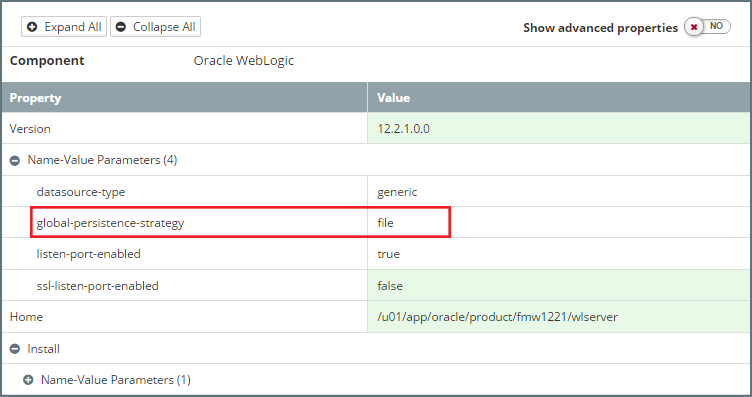
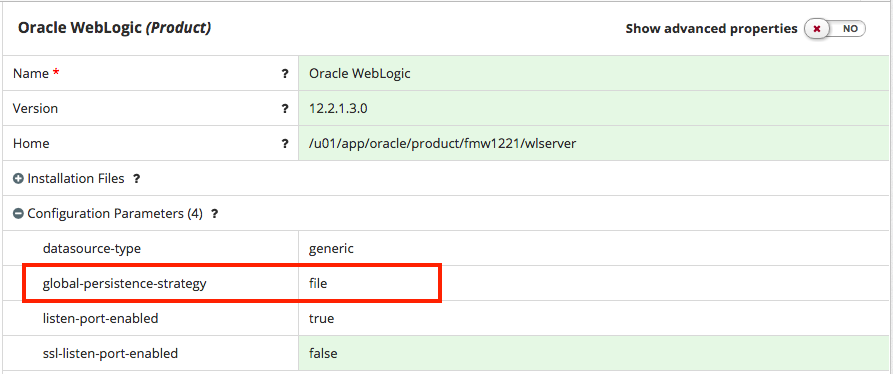
Updated persistent store for platform 2.0

diff --git a/platform/resources/weblogic/jms/persistent-stores/README.md b/platform/resources/weblogic/jms/persistent-stores/README.md
@@ -6,7 +6,7 @@
 
 ## {{ page.title }}
 
-Persistence stores provides a built-in, high-performance storage solution for WebLogic Server subsystems and services that require persistence, such as: 
+Persistence stores provides a built-in, high-performance storage solution for WebLogic Server subsystems and services that require persistence, such as:
 * Java Messaging Service (JMS)
 * Store-and-Forward (SAF) Service
 * Transaction Logs (TLogs)
@@ -18,9 +18,9 @@ One of the key design decisions when creating our Platform Blueprint is whether 
 
 ![](img/selectPersistenceStrategy.png)
 
-To view the global persistence strategy for a Platform Blueprint, open the Platform Blueprint Editor and navigate to `Blueprint > Products`. Select the `Oracle WebLogic` component to display its properties. 
+To view the global persistence strategy for a Platform Blueprint, open the Platform Blueprint Editor and navigate to `Blueprint > Products`. Select the `Oracle WebLogic` component to display its properties.
 
-Under `Name-Value Parameters` we will see the property `global-persistence-strategy` as illustrated below.
+Under `Configuration Parameters` we will see the property `global-persistence-strategy` as illustrated below.
 
 ![](img/persistenceStrategySetting.png)
 
@@ -29,19 +29,17 @@ When we select `File System` as our persistence strategy, MyST will automaticall
 
 | Name | Target | Notes |
 | ---- | ------ | ----- |
-| mds-owsm | AdminServer ||
-| mds-soa | AdminServer ||
-| UMSJMSFileStore__auto__*[n]* | osb_server*[n]* | One per OSB Managed Server |
-| WseeFileStore__auto__*[n]* | osb_server*[n]* | One per OSB Managed Server |
-| FileStore_auto_*[n]* | osb_server*[n]* | One per OSB Managed Server |
-| UMSJMSFileStore_auto_*[n]* | soa_server*[n]* | One per SOA Managed Server |
-| BPMJMSFileStore_auto_*[n]* | soa_server*[n]* | One per SOA Managed Server |
-| SOAJMSFileStore_auto_*[n]* | soa_server*[n]* | One per SOA Managed Server |
+| `mds-owsm` | `AdminServer` ||
+| `mds-soa` | `AdminServer` ||
+| `UMSJMSFileStore_auto_[n]` | `osb_server[n]` | One per OSB Managed Server |
+| `WseeFileStore_auto_[n]` | `osb_server[n]` | One per OSB Managed Server |
+| `FileStore_auto_[n]` | `osb_server[n]` | One per OSB Managed Server |
+| `UMSJMSFileStore_auto_[n]` | `soa_server[n]` | One per SOA Managed Server |
+| `BPMJMSFileStore_auto_[n]` | `soa_server[n]` | One per SOA Managed Server |
+| `SOAJMSFileStore_auto_[n]` | `soa_server[n]` | One per SOA Managed Server |
 
-
-
-#### Configure a File Persistence Store
-We can configure additional File Persistence Stores in the Platform Blueprint. To do this, open the Platform Blueprint Editor and navigate to `Blueprint > WebLogic Domains > [domain_name] > Persistence Stores > File Stores`. Expand this component to see a list of currently defined file stores.
+#### Configure a File Persistent Store
+We can configure additional File Persistence Stores in the Platform Blueprint. To do this, open the Platform Blueprint Editor and navigate to `Blueprint > WebLogic Domain Configuration > Persistent Stores > File Stores`. Expand this component to see a list of currently defined file stores.
 
 Either select an existing File Store to edit or click on the `+` icon to add a File Store.
 
@@ -50,25 +48,23 @@ For each File Store we need to specify the following properties:
 
 * **Directory** - Pathname to the directory on the file system where the file store is kept.
 
-* **Target** - Server instance on which to deploy the file store. It is recommended that the target is defined as a MyST property reference rather than a direct value. For example `${[rxr.wls.ManagedServer-1].name}`.
+* **Target** - Server instance on which to deploy the file store.
 
-We will need to define a separate file store for each JMS server. When configuring a JMS Module, we will need to create a separate JMS Server plus a corresponding File Store for each node in the cluster. So for a two node cluster, we would define two file stores as illustrated below.
-
-![](img/exampleFilePersistenceStore.png)
+We will need to define a separate file store for each JMS server. When configuring a JMS Module, we will need to create a separate JMS Server plus a corresponding File Store for each node in the cluster. So for a two node cluster, we would define two file stores. The except to this rule is for 12.2.1 onwards, where it is possible to target a File Store to a cluster.
 
 ### Database Persistence Strategy
-When we select a Database as our Global Persistence Strategy, MyST will automatically create the required file stores to support the selected product components. 
+When we select a Database as our Global Persistence Strategy, MyST will automatically create the required file stores to support the selected product components.
 
 For example, if we created a Platform Blueprint with the components SOA Suite and OSB, the following  JDBC Persistence Stores would be created:
 
 | Name | Target | Notes |
 | ---- | ------ | ----- |
-| UMSJMSJDBCStore__auto__*[n]* | osb_server*[n]* | One per OSB Managed Server |
-| WseeJDBCStore__auto__*[n]* | osb_server*[n]* | One per OSB Managed Server |
-| JDBCStore_auto_*[n]* | osb_server*[n]* | One per OSB Managed Server |
-| UMSJMSJDBCStore_auto_*[n]* | soa_server*[n]* | One per SOA Managed Server |
-| BPMJMSJDBCStore_auto_*[n]* | soa_server*[n]* | One per SOA Managed Server |
-| SOAJMSJDBCStore_auto_*[n]* | soa_server*[n]* | One per SOA Managed Server |
+| `UMSJMSJDBCStore_auto_[n]` | `osb_server[n]` | One per OSB Managed Server |
+| `WseeJDBCStore_auto_[n]` | `osb_server[n]` | One per OSB Managed Server |
+| `JDBCStore_auto_[n]` | `osb_server[n]` | One per OSB Managed Server |
+| `UMSJMSJDBCStore_auto_[n]` | `soa_server[n]` | One per SOA Managed Server |
+| `BPMJMSJDBCStore_auto_[n]` | `soa_server[n]` | One per SOA Managed Server |
+| `SOAJMSJDBCStore_auto_[n]` | `soa_server[n]` | One per SOA Managed Server |
 
 > Note: The default file persistent stores are also created, but these are not targeted by the JMS Servers.
 
@@ -94,15 +90,15 @@ WebLogic 10.3.6 and later support persistence to a JDBC-enabled database. Howeve
 | -------- | ---- | ----- |
 | 19565095 | p19565095_121300_Generic.zip | Creating a domain using WLST produces incorrect JMSSERVER name in 50% of the invocations. |
 
-#### Configure a Database Persistence Store
-To configure a Database Persistence Store in the Platform Blueprint, open the Platform Blueprint Editor and navigate to `Blueprint > WebLogic Domains > [domain_name] > Persistence Stores > Database Stores`. Expand this component to see a list of currently defined database stores.
+#### Configure a JDBC Persistent Store
+To configure a JDBC Persistent Store in the Platform Blueprint, open the Platform Blueprint Editor and navigate to `Blueprint > WebLogic Domain Configuration > Persistent Stores > JDBC Stores`. Expand this component to see a list of currently defined JDBC Stores.
 
-Either select an existing Database Store to edit or click on the `+` icon to add a Database Store.
+Either select an existing JDBC Store to edit or click on the `+` icon to add a JDBC Store.
 
 For each Database Store we need to specify the following properties:
 * **Name** - Name for the File Store.
 * **Prefix Name** - The prefix for the JDBC store's database table (WLStore).
 * **Data Source** - The JDBC data source used by this JDBC store to access its backing table. You cannot configure a JDBC store to use a JDBC data source that is configured to use an XA JDBC driver or configured to support global transactions.
-* **Target** - Server instance on which to target the database store. It is recommended that the target be defined as a MyST property reference rather than a direct value. For example `${[rxr.wls.ManagedServer-1].name}`.
+* **Target** - Server instance on which to target the database store.
 
 For each JDBC Persistence store we **must** define a distinct prefix-name. The prefix-name will be used to prefix the table name WLStore. If you define the same value for two different persistence stores, one of the managed servers might fail to start up.
